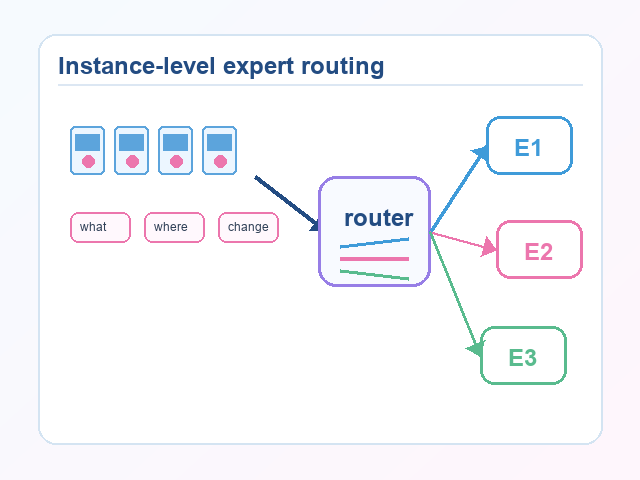
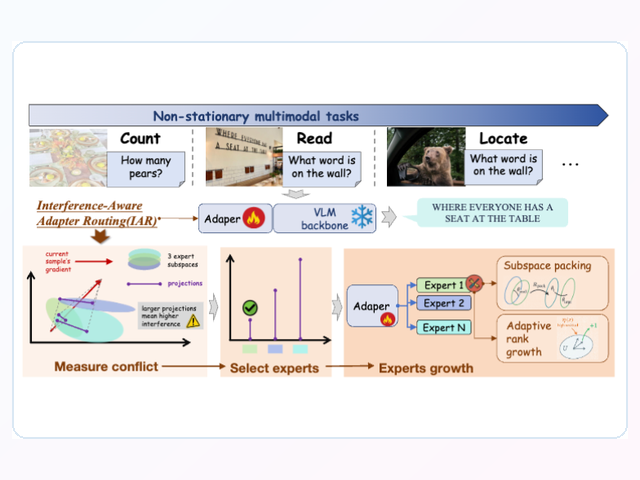
Update SYSU link and ECCV figure

diff --git a/index.html b/index.html
@@ -817,7 +817,7 @@
           <div class="meta-list" aria-label="Profile details">
             <div class="meta-item">
               <span>📍</span>
-              <span><a href="https://www.sysu.edu.cn/">Sun Yat-sen University</a>, Shenzhen, Guangdong, China</span>
+              <span><a href="https://en.wikipedia.org/wiki/Sun_Yat-sen_University">Sun Yat-sen University</a>, Shenzhen, Guangdong, China</span>
             </div>
             <div class="meta-item">
               <span>🎓</span>